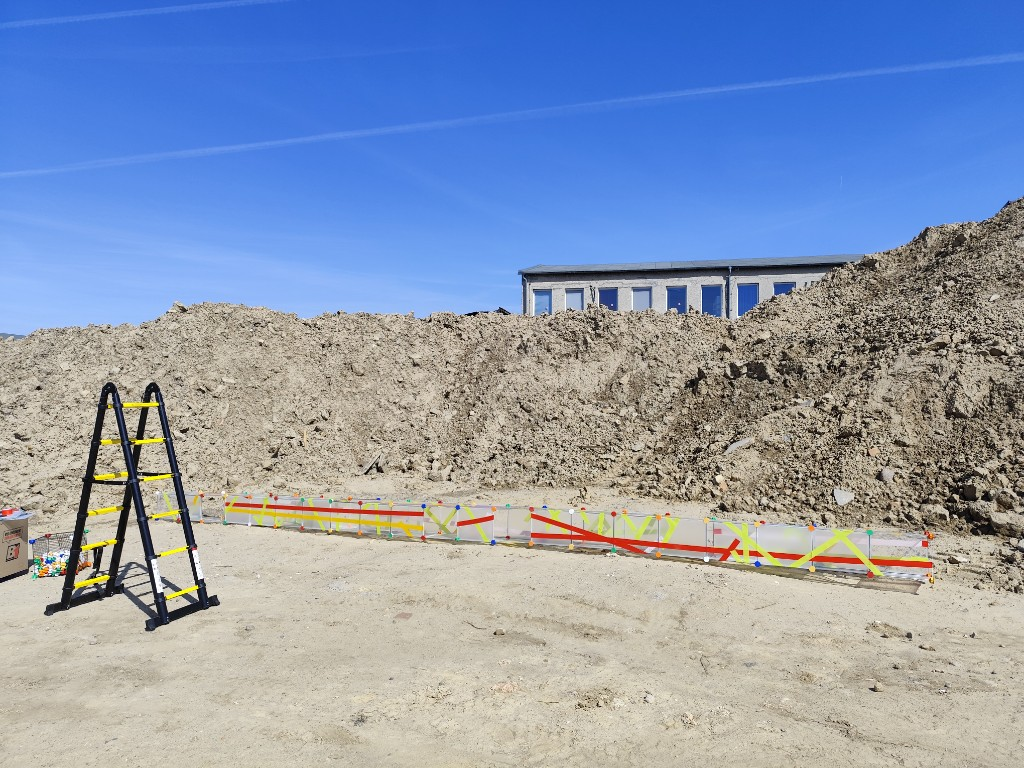
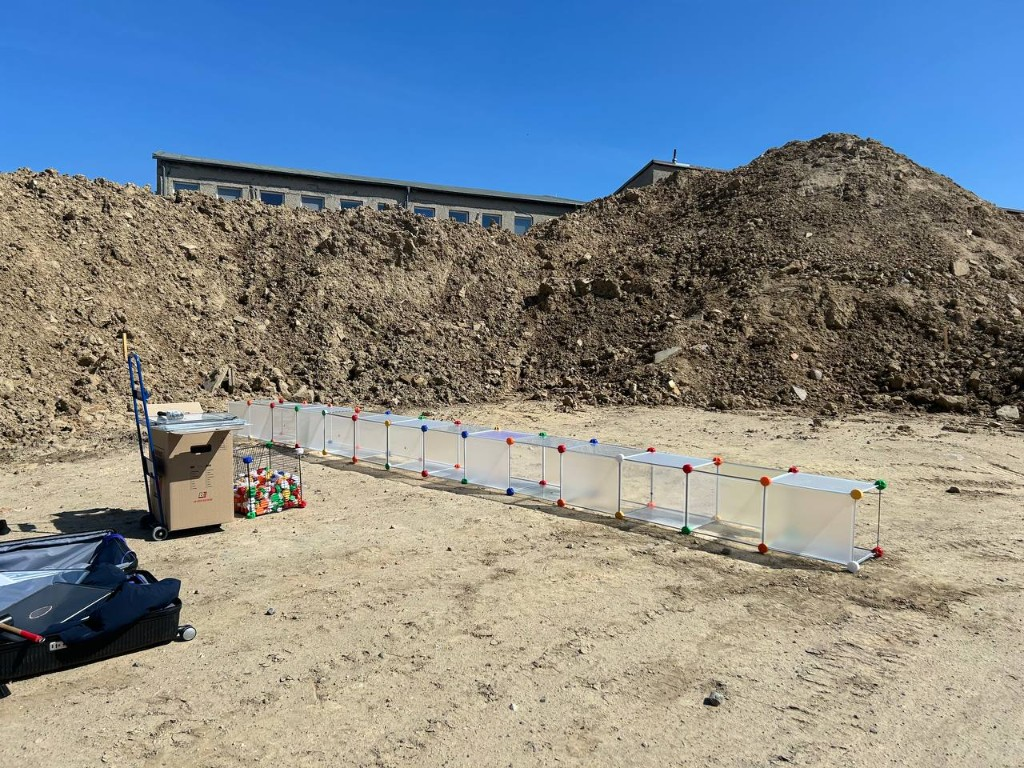
aa

diff --git a/src/assets/data/program_workshop.js b/src/assets/data/program_workshop.js
@@ -4,16 +4,12 @@ export const programWorkshop = {
     en: `Workshop/Lecture`,
   },
   description: {
-    kr: `7월 12일부터 16일까지 진행되는 워크숍과 강연 프로그램 역시 전시장 환경을 지속적으로 활성화시키는 요소로 작동한다.
-
-투카 라우리라는 7월 12일부터 14일까지 이어지는 공개 워크숍 ‘오픈 워크숍: 임시 스튜디오’와 ‘임시 스튜디오’를 통해 현장에서 수집한 폐건축 자재로 전시장 내부에 ‘살아있는 환경’을 구축하고, 참여자들과 함께 자재를 모으고 분류·조립하며 임시 구조물을 만들어 간다. 에릭 웡은 반델바이저 작곡가들의 악보를 함께 읽고 수행하며 침묵과 공간, 청취의 조건을 탐구하는 ‘즉흥과 작곡 사이: 들리지 않는 소리 탐구’ 워크숍을 선보인다. 우롱라디오는 모듈 패널과 플라스틱 조인트, 테이프를 이용해 공간을 가로지르는 긴 구조물을 참여자들과 함께 만드는 ‘그늘 속으로 들어가라’ 워크숍을 진행한다. 록 히메네즈 데 시스네로스/이볼은 롤란드 TR-909의 드럼머신 소리 열한 가지 배열을 모두 연주한다는 전제의 작품 ‘타악기 변형 무제’를 소개하는 강연을 선보이며, 이하령은 중앙동에서 수집한 스티로폼 상자로 강아지 형태의 조각을 만드는 ‘자급자족’ 워크숍을 진행한다. 닉 클라인은 참여자들이 오브젝트를 가져와 ‘연습 전시’를 만들고 기록하는 〈무례〉 워크숍을 구성하고, 오드리 첸은 소리를 통한 서사와 몸의 기억에 관한 ‘메아리와 몸의 기억’ 강연을 진행한다. 다이애나밴드는 움직이는 ‘듣기-존재’를 만들고 함께 듣는 ‘듣기-만들기를 위한 만들기-듣기’ 워크숍으로 프로그램을 마무리한다.`.trim(),
-    en: `The workshop and lecture programs held from 12 to 16 July operate as elements that continuously activate the exhibition environment.
-
-From 12 to 14 July, Tuukka Laurila leads the open workshop Temporary Studio, building a "living environment" inside the exhibition space from locally sourced found and discarded building materials through collective gathering, sorting, and assembly across three sessions. Eric Wong presents Between Improvisation and Written Music, Exploring Sounds Unheard, a sound workshop on silence, space, and the conditions of listening through Wandelweiser scores. oolongradio's Put Yourself in the Shade brings participants together to build a long structure spanning the workshop space with modular panels, plastic joints, and tape. Roc Jiménez de Cisneros/EVOL presents the lecture Untitled Drum Permutations on a piece premised on playing every possible ordering of eleven Roland TR-909 drum machine sounds. Haryung Lee leads Self-Sufficient, a workshop in which participants collect styrofoam boxes around Jungang-dong and shape them into dogs. Nick Klein's Impolite asks participants to bring objects for improvised "exercise exhibitions" and their documentation. Audrey Chen's lecture Invoking Echoic and Physical Memories addresses storytelling through sound and the body. dianaband concludes the program with Making-Listening for Listening-Making, a workshop in which participants create mobile listening-beings and listen together to the worlds they construct.`.trim(),
+    kr: ``.trim(),
+    en: ``.trim(),
   },
   date: {
     kr: `7월 12일 (일) – 7월 16일 (목)`.trim(),
-    en: `JUL 12 (Sun) – JUL 16 (Thu)`.trim(),
+    en: `JUL 12 (SUN) – JUL 16 (THU)`.trim(),
   },
   openingHours: {
     kr: ``.trim(),

diff --git a/src/assets/data/program_exhibition.js b/src/assets/data/program_exhibition.js
@@ -4,20 +4,16 @@ export const programExhibition = {
     en: `Exhibition`,
   },
   description: {
-    kr: `전시 프로그램의 참여 예술가들은 기획 단계에서부터 전시장과 무대 공간의 조건을 새롭게 구성해줄 것을 요청받았다. 앤드류 로스의 무대 구조물, 김솔이의 모듈형 조각 구조, 이하령의 증식하는 구형 오브젝트는 고정된 조각이라기보다 관객과 퍼포머의 이동, 사용과 시간의 흐름 속에서 상태를 바꾸는 구조로 기능한다. 투카 라우리라는 지역의 재활용 자재와 잉여 건축 자재를 활용해 전시장 내부에 하나의 '살아있는 환경'을 구축한다. 이들이 만들어내는 좌석과 무대, 스피커와 조각, 설치 작업들은 공간의 구조를 계속 변화시킨다.
-
-전시장 내부의 음향 조건 역시 주요한 구성 요소로 작동한다. 휴고 에스킨카는 고출력 사운드 시스템을 설치이자 환경적 요소로 다루며, 관객이 없는 운영 시간 이후에도 지속되는 음향 조건을 제안한다. 닉 클라인의 대형 배너 작업은 퍼포먼스와 사운드, 설치가 뒤섞이는 공간의 분위기와 리듬을 형성하는 장치로 기능한다. 리  치항은 기존 프로젝트 Mercury Patio를 대전의 맥락 안에서 확장하며, 셔틀버스를 기다리는 공간을 일시적인 전이 공간으로 전환시킨다. 이동과 대기, 반복과 지연 속에서 발생하는 감각의 변화 역시 이번 페스티벌의 중요한 요소 중 하나다.`.trim(),
-    en: `The artists participating in the exhibition program were invited from the planning stage to reconfigure the conditions of the exhibition and stage spaces. Andrew Ross's stage structure, Sollee Kim's modular sculptural structure, and Haryung Lee's proliferating spherical objects function less as fixed sculptures than as structures whose states shift through the movement of audiences and performers, through use, and over time. Tuukka Laurila builds a "living environment" inside the exhibition space using local recycled materials and surplus construction materials. The seating, stages, speakers, sculptures, and installations they create continually alter the structure of the space.
-
-The acoustic conditions inside the exhibition space also operate as a central component. Hugo Esquinca treats a high-powered sound system as both an installation and an environmental element, proposing sonic conditions that continue even after operating hours, when no audience is present. Nick Klein's large-scale banner functions as a device that shapes the atmosphere and rhythm of a space where performance, sound, and installation intersect. Li Qihang expands her existing project Mercury Patio within the context of Daejeon, transforming the space where visitors wait for the shuttle bus into a temporary space of transition. The sensory changes that arise through movement and waiting, repetition and delay, are also among the important elements of this festival.`.trim(),
+    kr: ``.trim(),
+    en: ``.trim(),
   },
   period: {
     kr: `7월 10일 (금) – 7월 18일 (토)`.trim(),
-    en: `JUL 10 (Fri) – JUL 18 (Sat)`.trim(),
+    en: `JUL 10 (FRI) – JUL 18 (SAT)`.trim(),
   },
   openingHours: {
     kr: `금 · 토 오후 12–7시 / 일–목 오후 12–8시`.trim(),
-    en: `Fri · Sat 12–7pm / Sun–Thu 12–8pm`.trim(),
+    en: `FRI · SAT 12pm - 7pm / SUN–THU 12pm - 8pm`.trim(),
   },
   works: [
     {

diff --git a/src/assets/data/program_workshop_schedule.js b/src/assets/data/program_workshop_schedule.js
@@ -1,7 +1,7 @@
 export const workshopSchedule = [
   {
     id: 'workshop-0712',
-    dateLabel: { kr: '7월 12일 (일)', en: 'JUL 12 (Sun)' },
+    dateLabel: { kr: '7월 12일 (일)', en: 'JUL 12 (SUN)' },
     entries: [
       {
         id: 'workshop-tuukka-laurila-0712',
@@ -12,7 +12,7 @@ export const workshopSchedule = [
   },
   {
     id: 'workshop-0713',
-    dateLabel: { kr: '7월 13일 (월)', en: 'JUL 13 (Mon)' },
+    dateLabel: { kr: '7월 13일 (월)', en: 'JUL 13 (MON)' },
     entries: [
       {
         id: 'workshop-eric-wong-0713',
@@ -28,7 +28,7 @@ export const workshopSchedule = [
   },
   {
     id: 'workshop-0714',
-    dateLabel: { kr: '7월 14일 (화)', en: 'JUL 14 (Tue)' },
+    dateLabel: { kr: '7월 14일 (화)', en: 'JUL 14 (TUE)' },
     entries: [
       {
         id: 'workshop-oolongradio-0714',
@@ -44,7 +44,7 @@ export const workshopSchedule = [
   },
   {
     id: 'workshop-0715',
-    dateLabel: { kr: '7월 15일 (수)', en: 'JUL 15 (Wed)' },
+    dateLabel: { kr: '7월 15일 (수)', en: 'JUL 15 (WED)' },
     entries: [
       {
         id: 'lecture-evol-0715',
@@ -53,14 +53,14 @@ export const workshopSchedule = [
       },
       {
         id: 'workshop-haryung-lee-0715',
-        time: { kr: '오후 5시 - 8시', en: '5pm - 8pm' },
+        time: { kr: '오후 5시 - 7시', en: '5pm - 7pm' },
         detailId: 'workshop-haryung-lee',
       },
     ],
   },
   {
     id: 'workshop-0716',
-    dateLabel: { kr: '7월 16일 (목)', en: 'JUL 16 (Thu)' },
+    dateLabel: { kr: '7월 16일 (목)', en: 'JUL 16 (THU)' },
     entries: [
       {
         id: 'workshop-nick-klein-0716',
@@ -301,6 +301,15 @@ In this workshop, participants will create listening-beings that change and are 
 Participants will be provided with a simple motor device, a battery, and a network device. We may search for something specific to listen to in the space; or discover by chance a 'listening' created by spontaneous movements that evokes the human body. Whichever the case, we will follow where the process of making-listening leads. Using found objects, collecting materials from nature, etc., together we will create a collective listening by us, for us.
 `.trim(),
     },
+    images: [
+      {
+        src: '/images/workshops/dianaband-workshop.png',
+        alt: {
+          kr: '다이애나밴드 워크숍 대표 이미지',
+          en: 'dianaband workshop representative image',
+        },
+      },
+    ],
   },
 ]
 

diff --git a/src/assets/data/program_performance_schedule.js b/src/assets/data/program_performance_schedule.js
@@ -3,24 +3,24 @@ import { artistsData } from './artists.js'
 export const performanceSchedule = [
   {
     id: 'perf-0710',
-    shortLabel: { kr: '7/10 (금)', en: '7/10 (Fri)' },
-    dateLabel: { kr: '7월 10일 (금)', en: 'JUL 10 (Fri)' },
+    shortLabel: { kr: '7/10 (금)', en: '7/10 (FRI)' },
+    dateLabel: { kr: '7월 10일 (금)', en: 'JUL 10 (FRI)' },
     time: { kr: '오후 7시 - 10시', en: '7pm - 10pm' },
     naverBookingUrl: null,
     acts: ['The Great △', 'Jiyoung Wi', 'Container', 'Dayoon Lee'],
   },
   {
     id: 'perf-0711',
-    shortLabel: { kr: '7/11 (토)', en: '7/11 (Sat)' },
-    dateLabel: { kr: '7월 11일 (토)', en: 'JUL 11 (Sat)' },
+    shortLabel: { kr: '7/11 (토)', en: '7/11 (SAT)' },
+    dateLabel: { kr: '7월 11일 (토)', en: 'JUL 11 (SAT)' },
     time: { kr: '오후 7시 - 10시', en: '7pm - 10pm' },
     naverBookingUrl: null,
     acts: ['HELM', 'Luciano Maggiore', 'Seiji Morimoto', 'Tzu Ni', 'Eric Wong'],
   },
   {
     id: 'perf-0717',
-    shortLabel: { kr: '7/17 (금)', en: '7/17 (Fri)' },
-    dateLabel: { kr: '7월 17일 (금)', en: 'JUL 17 (Fri)' },
+    shortLabel: { kr: '7/17 (금)', en: '7/17 (FRI)' },
+    dateLabel: { kr: '7월 17일 (금)', en: 'JUL 17 (FRI)' },
     time: { kr: '오후 7시 - 10시', en: '7pm - 10pm' },
     naverBookingUrl: null,
     acts: [
@@ -36,8 +36,8 @@ export const performanceSchedule = [
   },
   {
     id: 'perf-0718',
-    shortLabel: { kr: '7/18 (토)', en: '7/18 (Sat)' },
-    dateLabel: { kr: '7월 18일 (토)', en: 'JUL 18 (Sat)' },
+    shortLabel: { kr: '7/18 (토)', en: '7/18 (SAT)' },
+    dateLabel: { kr: '7월 18일 (토)', en: 'JUL 18 (SAT)' },
     time: { kr: '오후 7시 - 10시', en: '7pm - 10pm' },
     naverBookingUrl: null,
     acts: ['Choi Joonyong', 'Evicshen', 'EVOL', 'minsungsig'],

diff --git a/src/views/Program.vue b/src/views/Program.vue
@@ -101,8 +101,9 @@
           </div>
 
           <div
+            v-if="localized(program.data.description)"
             class="program-section__description rich-text"
-            v-html="localized(program.data.description)"
+            v-html="sanitizeRichText(localized(program.data.description))"
           ></div>
 
           <div v-if="program.id === 'performance'" class="program-section__schedule">
@@ -291,7 +292,7 @@ import { programPerformance } from '@/assets/data/program_performance.js'
 import { programWorkshop } from '@/assets/data/program_workshop.js'
 import { performanceSchedule, resolvePerformanceActs } from '@/assets/data/program_performance_schedule.js'
 import { getWorkshopDetail, workshopSchedule } from '@/assets/data/program_workshop_schedule.js'
-import { containsHtml } from '@/utils/htmlContent.js'
+import { containsHtml, sanitizeRichText } from '@/utils/htmlContent.js'
 
 function textSeedHash(s) {
   return s.split('').reduce((a, c) => ((Math.imul(a, 31) + c.charCodeAt(0)) | 0) >>> 0, 5381) >>> 0
@@ -356,6 +357,7 @@ export default {
   },
   methods: {
     containsHtml,
+    sanitizeRichText,
     localized(field) {
       if (!field) return ''
       const value = field[this.locale.lang] || field.en || field.kr || ''
@@ -680,7 +682,6 @@ export default {
 .program-page--ko .program-day__datetime-time {
   font-family: var(--font-home-ko);
   font-weight: 400;
-  font-style: italic;
   color: rgba(10, 10, 10, 0.34);
   text-shadow:
     0 0 0.2px rgba(10, 10, 10, 0.12),

diff --git a/src/views/WorkshopDetail.vue b/src/views/WorkshopDetail.vue
@@ -195,7 +195,14 @@ export default {
       return workshopSchedule.flatMap((day) =>
         day.entries
           .filter((entry) => entry.detailId === this.detail.id)
-          .map((entry) => [this.localized(day.dateLabel), this.localized(entry.time)].filter(Boolean).join(' · ')),
+          .map((entry) =>
+            [
+              this.formatWorkshopDetailDate(this.localized(day.dateLabel)),
+              this.localized(entry.time),
+            ]
+              .filter(Boolean)
+              .join(' · '),
+          ),
       )
     },
     detailImages() {
@@ -235,6 +242,15 @@ export default {
       if (!field) return ''
       const value = field[this.locale.lang] || field.en || field.kr || ''
       return typeof value === 'string' ? value.trim() : value
+    },
+    formatWorkshopDetailDate(label) {
+      const text = String(label || '').trim()
+      if (this.locale.lang === 'kr' || !text) return text
+      const titleCase = (word) => word.charAt(0) + word.slice(1).toLowerCase()
+      return text.replace(
+        /^([A-Z]{3})\s+(\d{1,2})\s+\(([A-Z]{3})\)$/,
+        (_, month, day, weekday) => `${titleCase(month)} ${day} (${titleCase(weekday)})`,
+      )
     },
     artistSplitStyle(labelPart) {
       const key = textSeedHash(`${labelPart}\0program-link`)

diff --git a/src/utils/htmlContent.js b/src/utils/htmlContent.js
@@ -1,3 +1,25 @@
+const ALLOWED_RICH_TEXT_TAG_RE = /<\/?(?:i|em|b|strong|br|a)(?:\s[^>]*)?>/gi
+
+/** Escape `<...>` for v-html unless it is a whitelisted inline tag (e.g. `<i>`). */
+export function sanitizeRichText(value) {
+  const text = String(value || '')
+  if (!text) return ''
+  const preserved = []
+  const masked = text.replace(ALLOWED_RICH_TEXT_TAG_RE, (tag) => {
+    const id = preserved.length
+    preserved.push(tag)
+    return `\uE000${id}\uE001`
+  })
+  const escaped = masked
+    .replace(/&(?!amp;|lt;|gt;|quot;|apos;|#\d+;|#x[\da-f]+;)/gi, '&amp;')
+    .replace(/</g, '&lt;')
+    .replace(/>/g, '&gt;')
+  return preserved.reduce(
+    (out, tag, id) => out.replace(`\uE000${id}\uE001`, tag),
+    escaped,
+  )
+}
+
 export function containsHtml(value) {
   return /<[a-z][\s\S]*>/i.test(String(value || ''))
 }

diff --git a/src/assets/data/program_performance.js b/src/assets/data/program_performance.js
@@ -17,7 +17,7 @@ At the same time, this festival pays attention to the collective energy formed b
   },
   date: {
     kr: `7월 10일 (금) | 7월 11일 (토) | 7월 17일 (금) | 7월 18일 (토)`.trim(),
-    en: `JUL 10 (Fri) | JUL 11 (Sat) | JUL 17 (Fri) | JUL 18 (Sat)`.trim(),
+    en: `JUL 10 (FRI) | JUL 11 (SAT) | JUL 17 (FRI) | JUL 18 (SAT)`.trim(),
   },
   openingHours: {
     kr: `오후 7시 - 오후 10시`.trim(),
